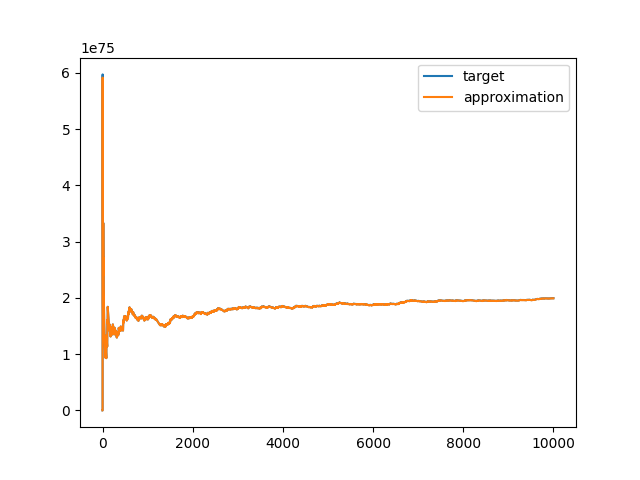
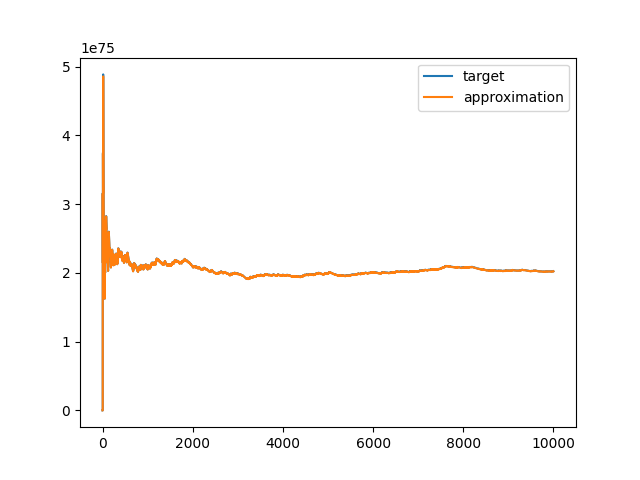
add readme

diff --git a/script/research/crypsinous/linearindependence/README.md b/script/research/crypsinous/linearindependence/README.md
@@ -1,0 +1,12 @@
+# target function approximation
+
+excluding use of floats, and division, only +,-,* are allowed.
+
+# consequences
+
+- hard coded tunning.
+- public reward function.
+
+# comparison of original target to approximation
+
+![alt text](https://github.com/darkrenaissance/darkfi/blob/master/script/research/crypsinous/linearindependence/plot.png?raw=true)
